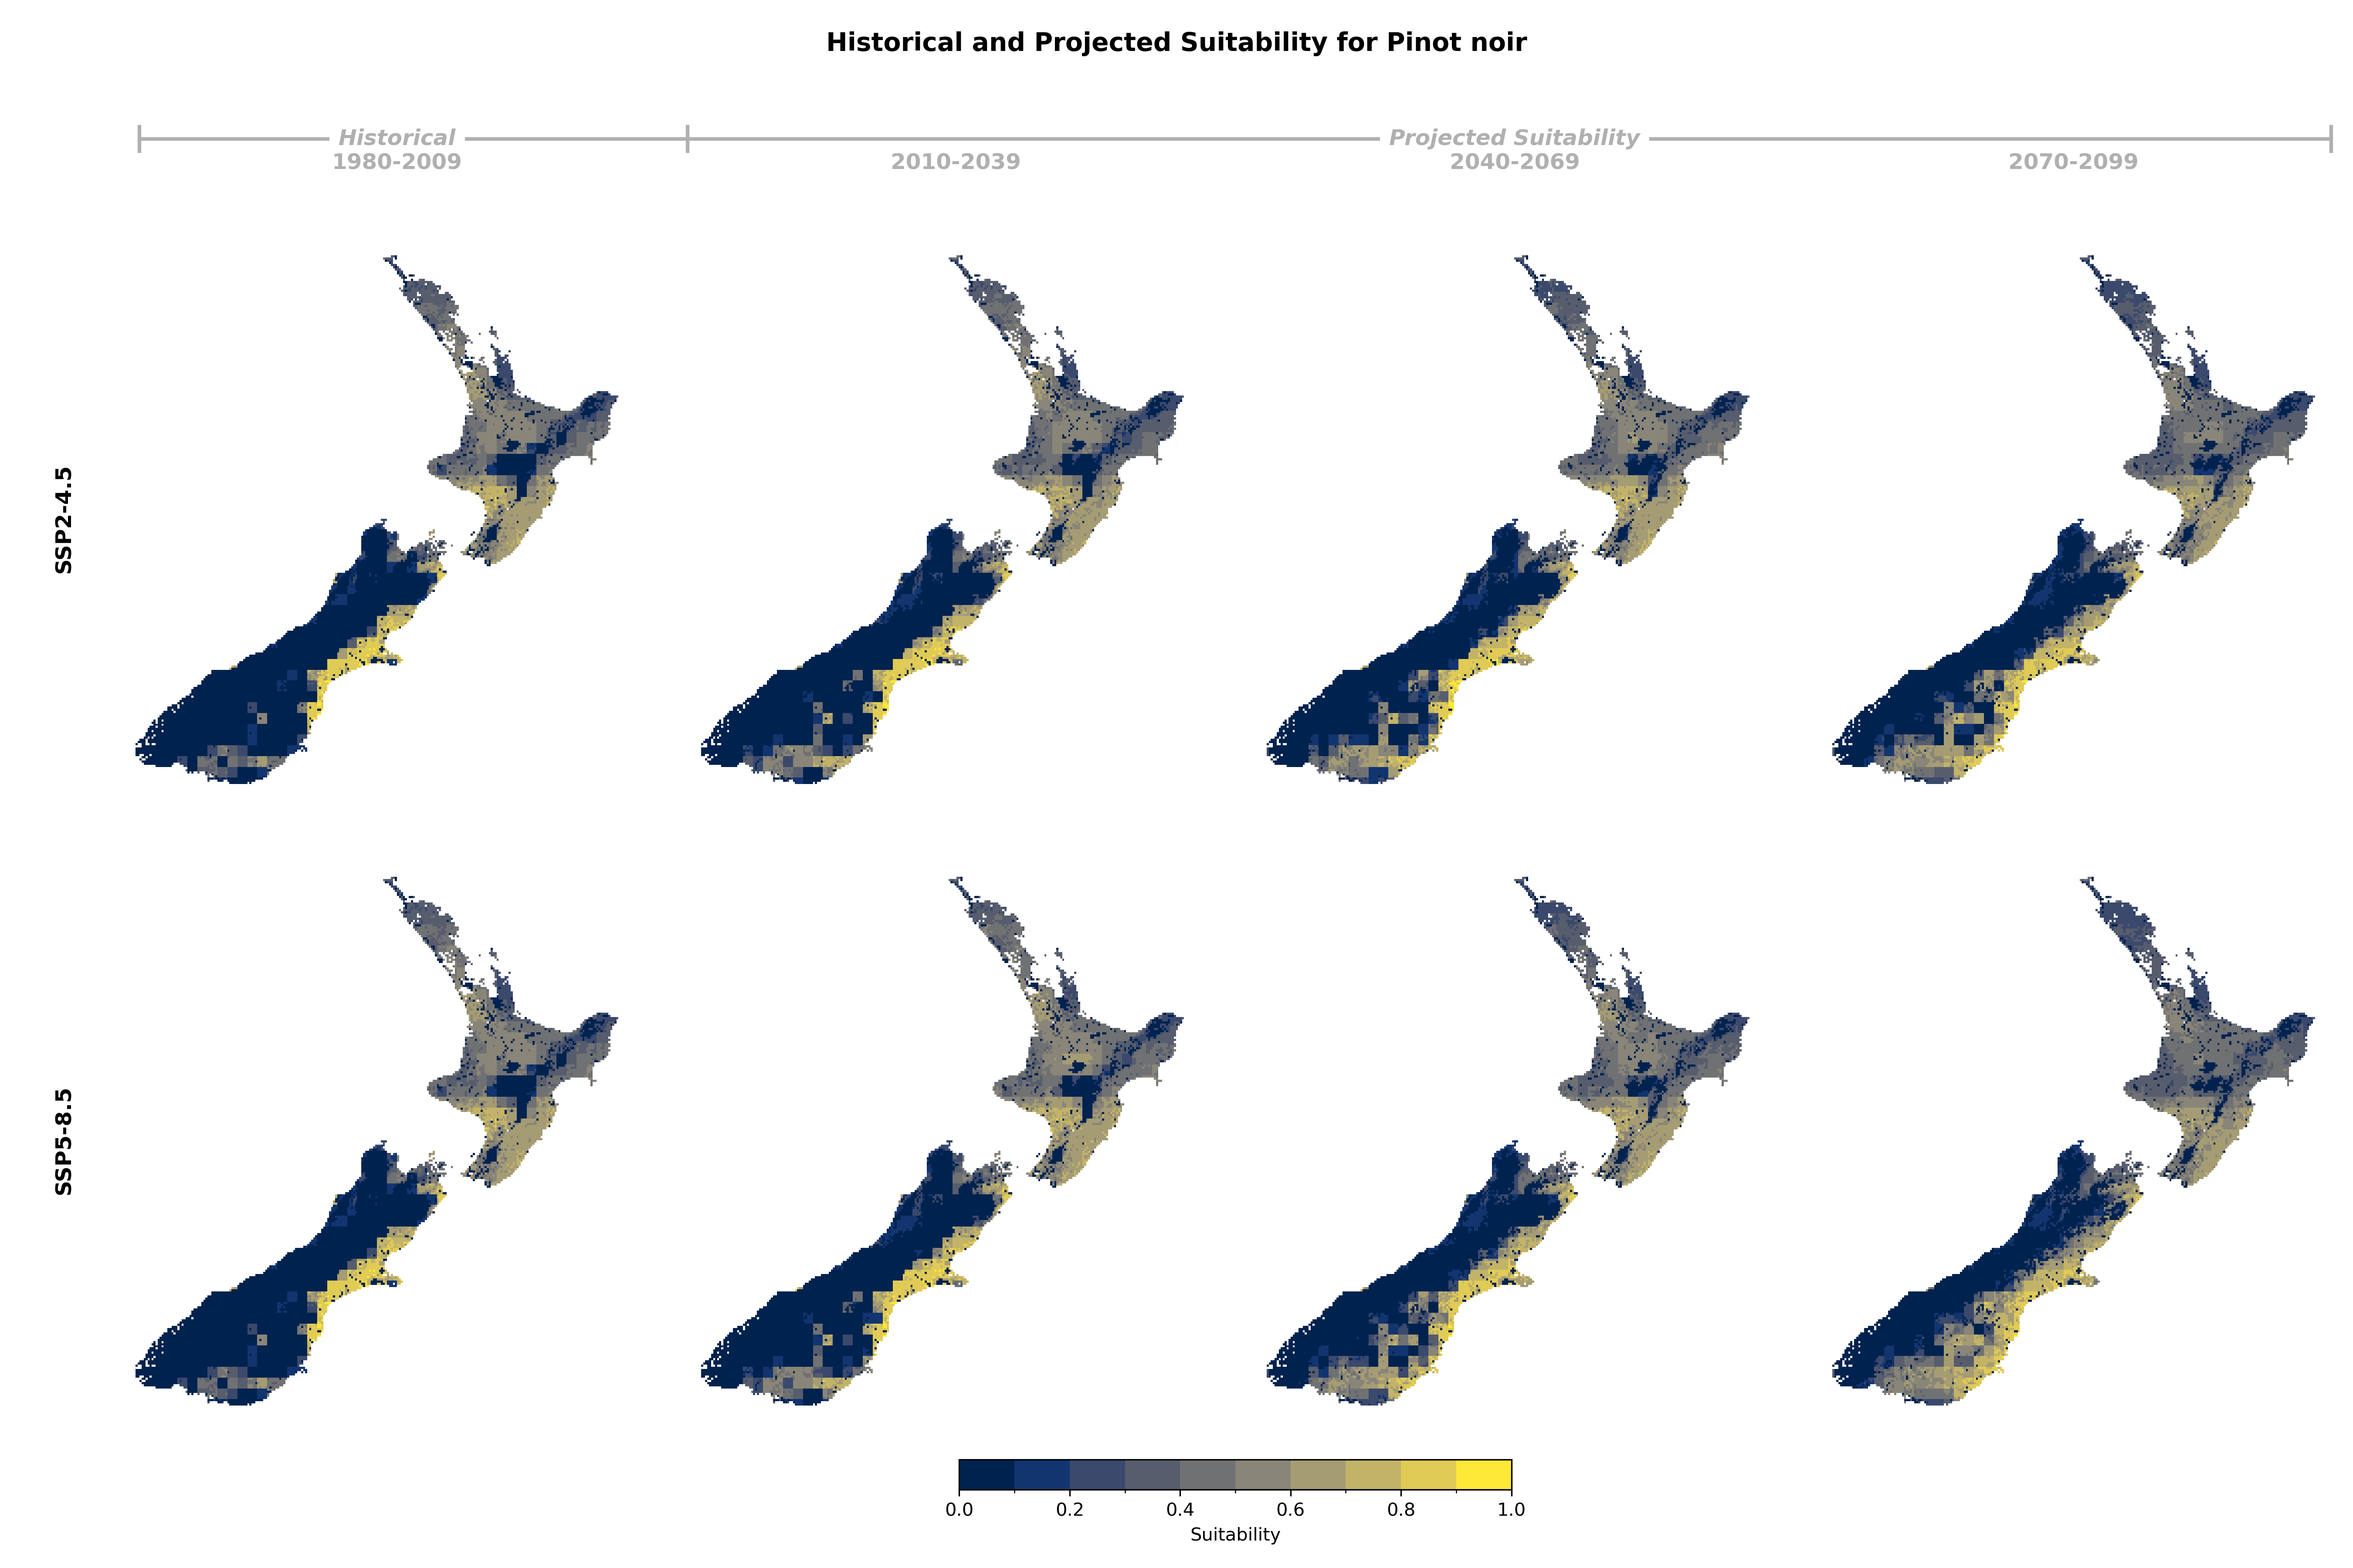
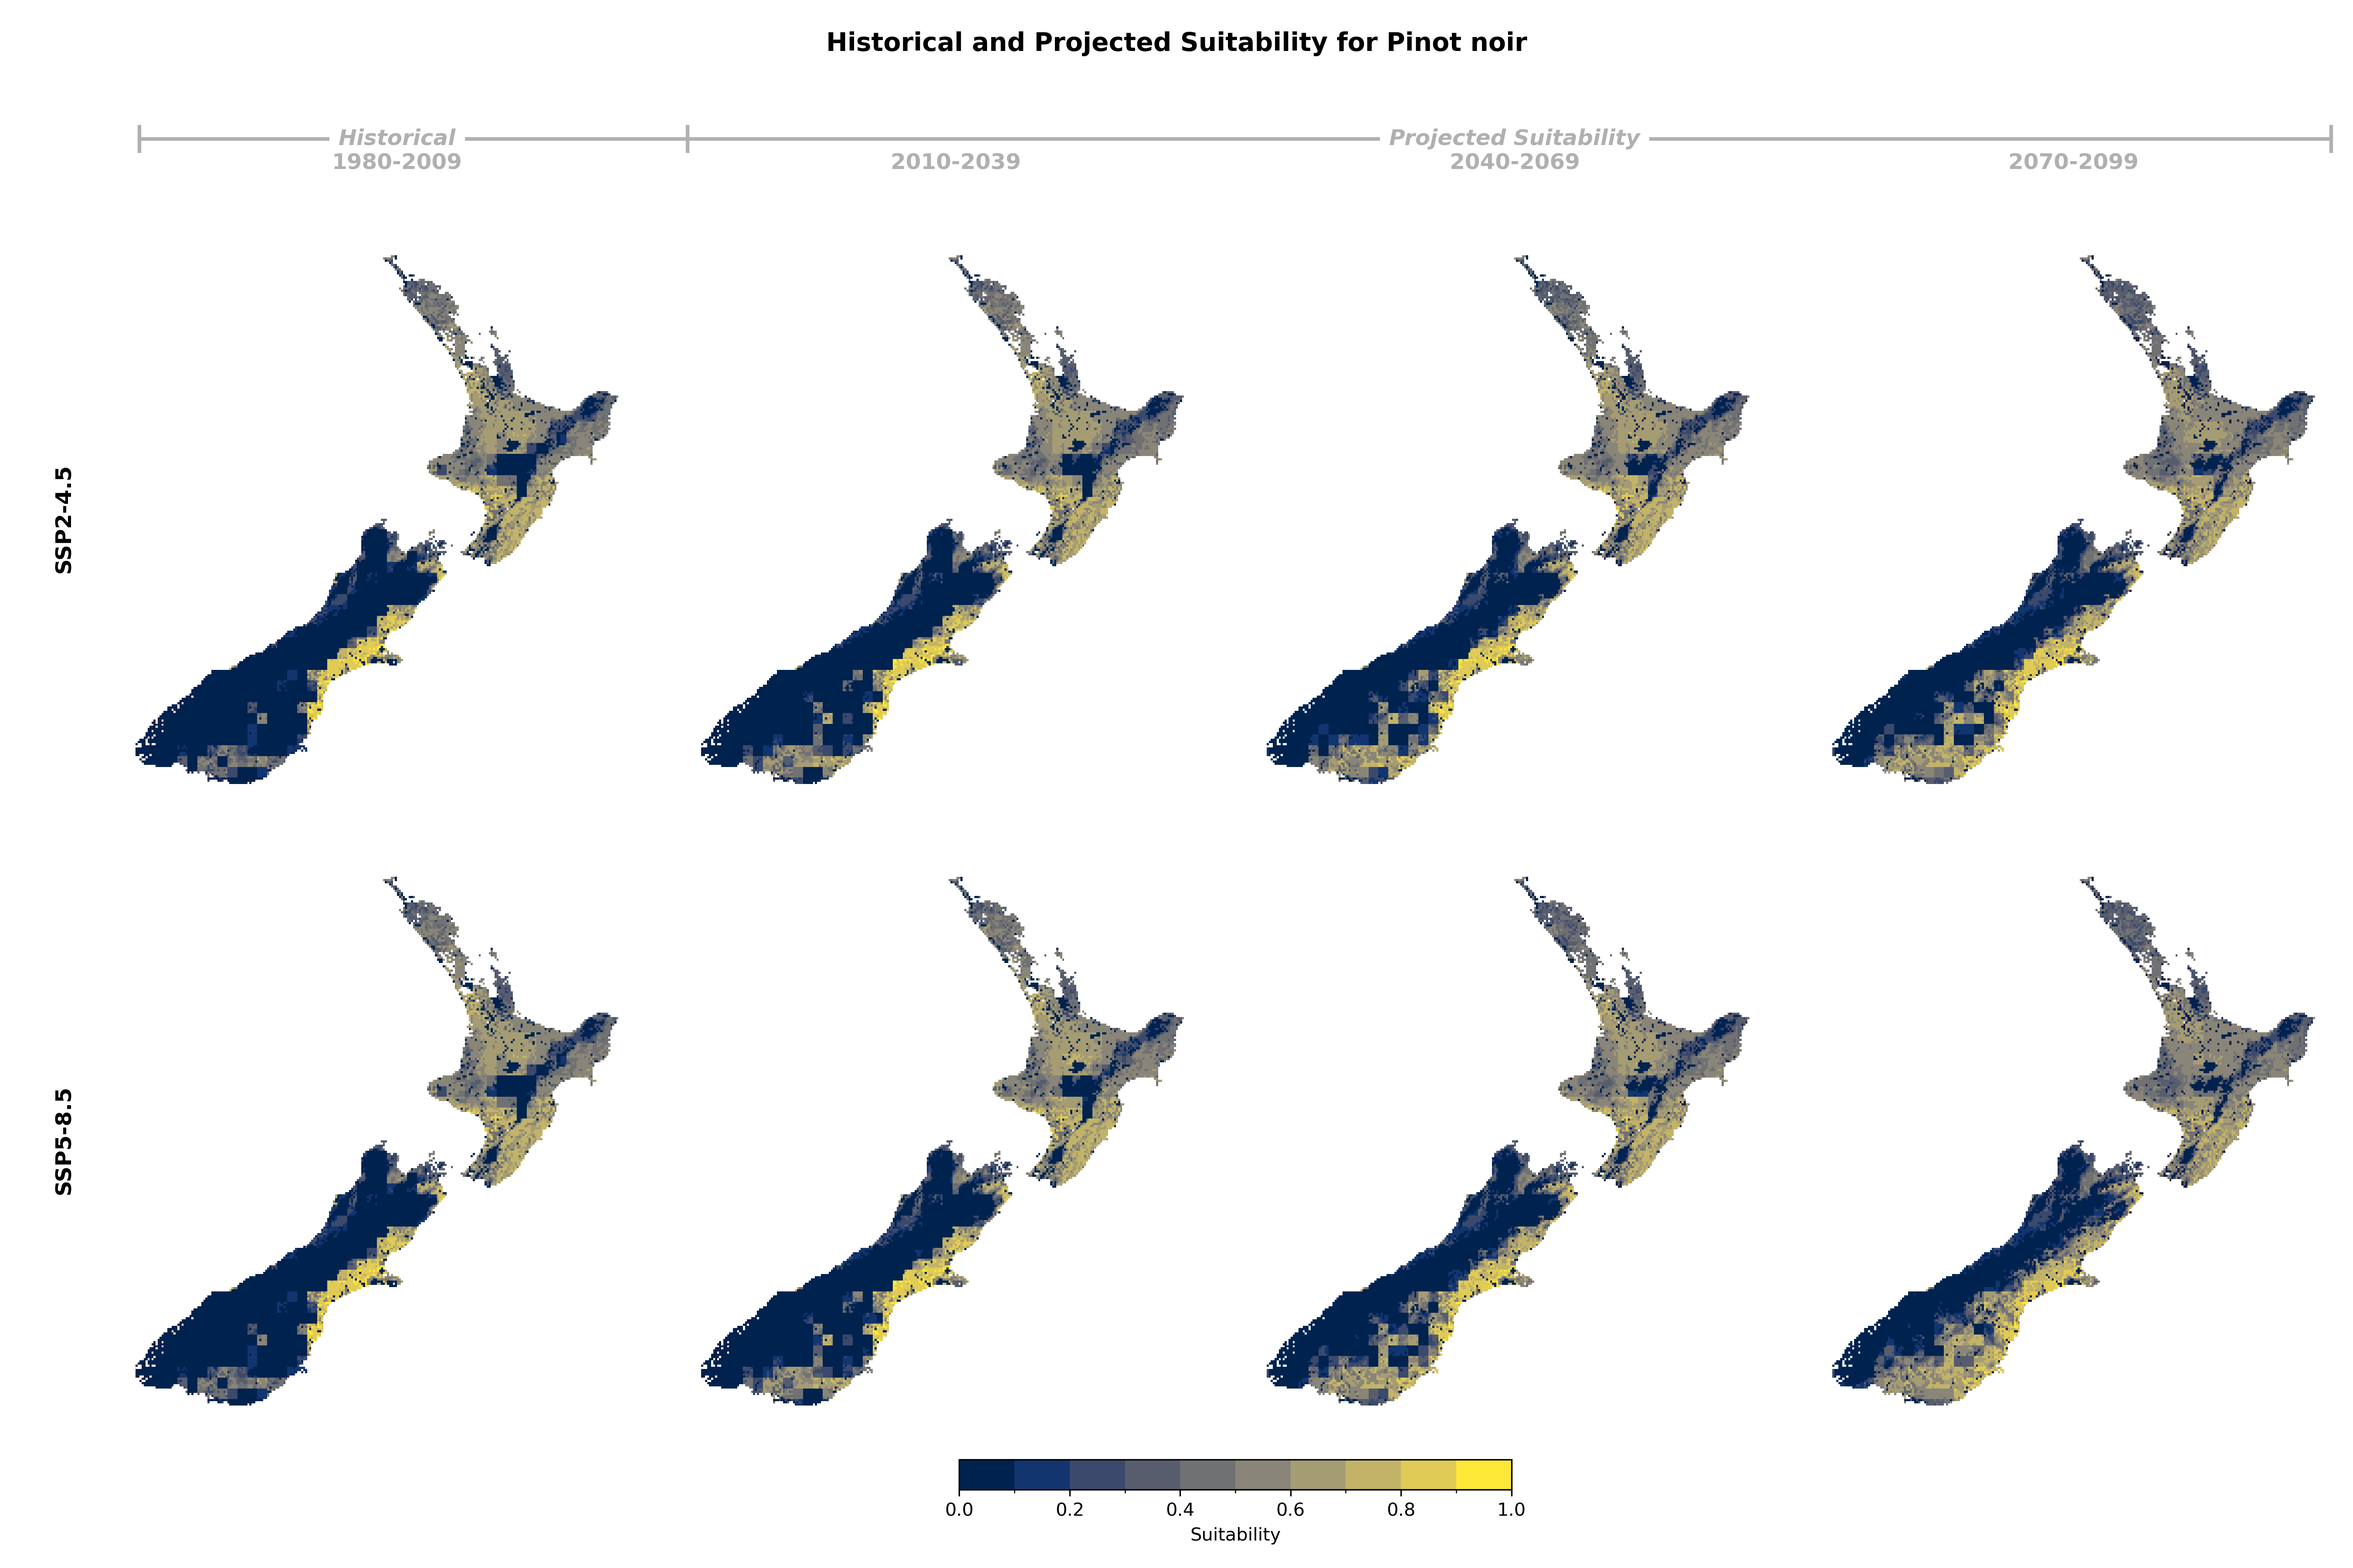
Add Pinot noir 1km suitability

diff --git a/docs/landuses/pinotnoir.md b/docs/landuses/pinotnoir.md
@@ -8,11 +8,11 @@ title: Pinot noir
 
 ### Suitability Values
 
-![](../_static/summary_figs/pinotnoir_suitability_SSP245-SSP585_5km_v1.0.png)
+![](../_static/summary_figs/pinotnoir_suitability_SSP245-SSP585_1km_v1.0.png)
 
 ### Suitability Changes
 
-![](../_static/summary_figs/pinotnoir_suitability_change_SSP245-SSP585_5km_v1.0.png)
+![](../_static/summary_figs/pinotnoir_suitability_change_SSP245-SSP585_1km_v1.0.png)
 
 :::
 
